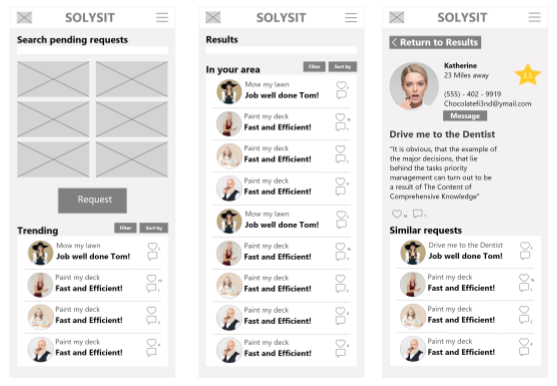
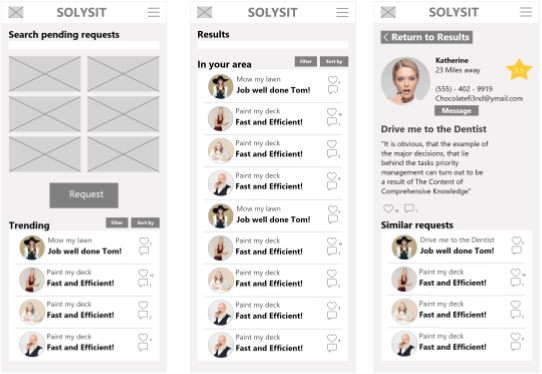
asf

diff --git a/Solysit/index.html b/Solysit/index.html
@@ -139,11 +139,11 @@
         I used a program called Lunacy to create sketch files for my wireframes. This high-fidelity draft is where introduced a lot of copy.
       </p>
     </div>
-      <img src="..\resources\digitized wires.png" style="width:600px">
+    <img src="..\resources\digitized wires.png" style="width:600px">
   </div>
 
   <div class="flexrow">
-    <div class="flexcol" >
+    <div class="flexcol-halfcard" >
       <h1 > Clickable Prototype </h1>
       <p>
         Using Invision I drafted a clickable prototype to present to users during my user testing. Invision allows users to create one free prototype.
@@ -153,6 +153,7 @@
         This prototype is the results of several rounds of user testing and an overhaul of the user interface design.
       </p>
     </div>
+    <img src="..\resources\clickable wires.png" style="width:600px">
   </div>
 
   <div class="flexrow">
@@ -190,14 +191,14 @@
          Some of the improvements included:
       </p>
       <ul>
-        <li>Clearer distinctions between the two main flows: “Find work” and “Find Help”</li>
+        <li>Clearer distinctions between the two main flows: “Get Paid” and “Get Help”</li>
         <li>Two screens added to the flows to get some filtering or onboarding information from users</li>
         <li>Updated copy to mitigate confusion in user testing</li>
         <li>Clearer representations of user ratings</li>
         <li>Removal of “social media” features such as the trending feed and likes and comments on postings</li>
       </ul>
     </div>
-      <img src="..\resources\coffman the cube.png" style="width:600px">
+      <img src="..\resources\round one adjustments.png" style="width:600px">
   </div>
 
   <div class="flexrow">
@@ -228,10 +229,10 @@
         <li>Changed the homepage to say “Work for each other”</li>
         <li>Added a “Use current location button”</li>
         <li>Added a Navigation bar to give users some idea about how long and where each flow was going</li>
-        <li>Added a Navigation bar to give users some idea about how long and where each flow was going</li>
+        <li>Added a Map to give users another way to view the results</li>
       </ul>
     </div>
-      <img src="..\resources\coffman the cube.png" class="image">
+      <img src="..\resources\round 2 adjustments.png" class="image">
   </div>
 
   <div class="flexrow">
@@ -262,7 +263,7 @@
         <li>Added a spot to enter a location into the “Add Content” screen.</li>
       </ul>
     </div>
-      <img src="..\resources\coffman the cube.png" >
+      <img src="..\resources\round 3 adjustments.png" style="width:600px" >
   </div>
 
   <div class="flexrow">
